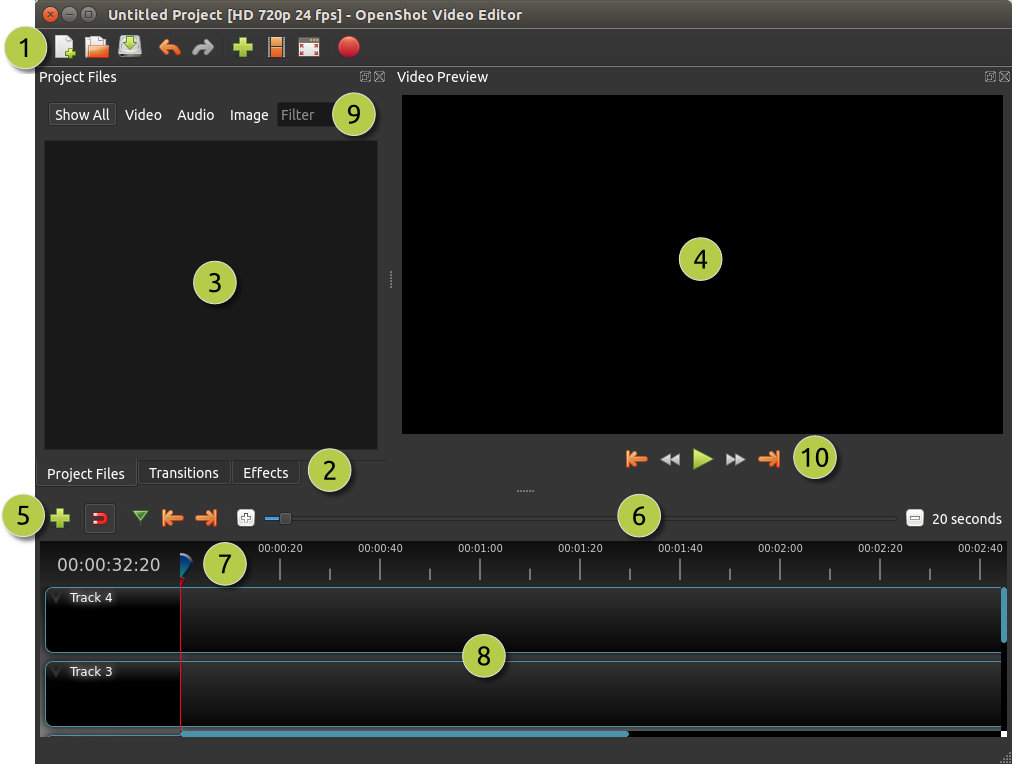
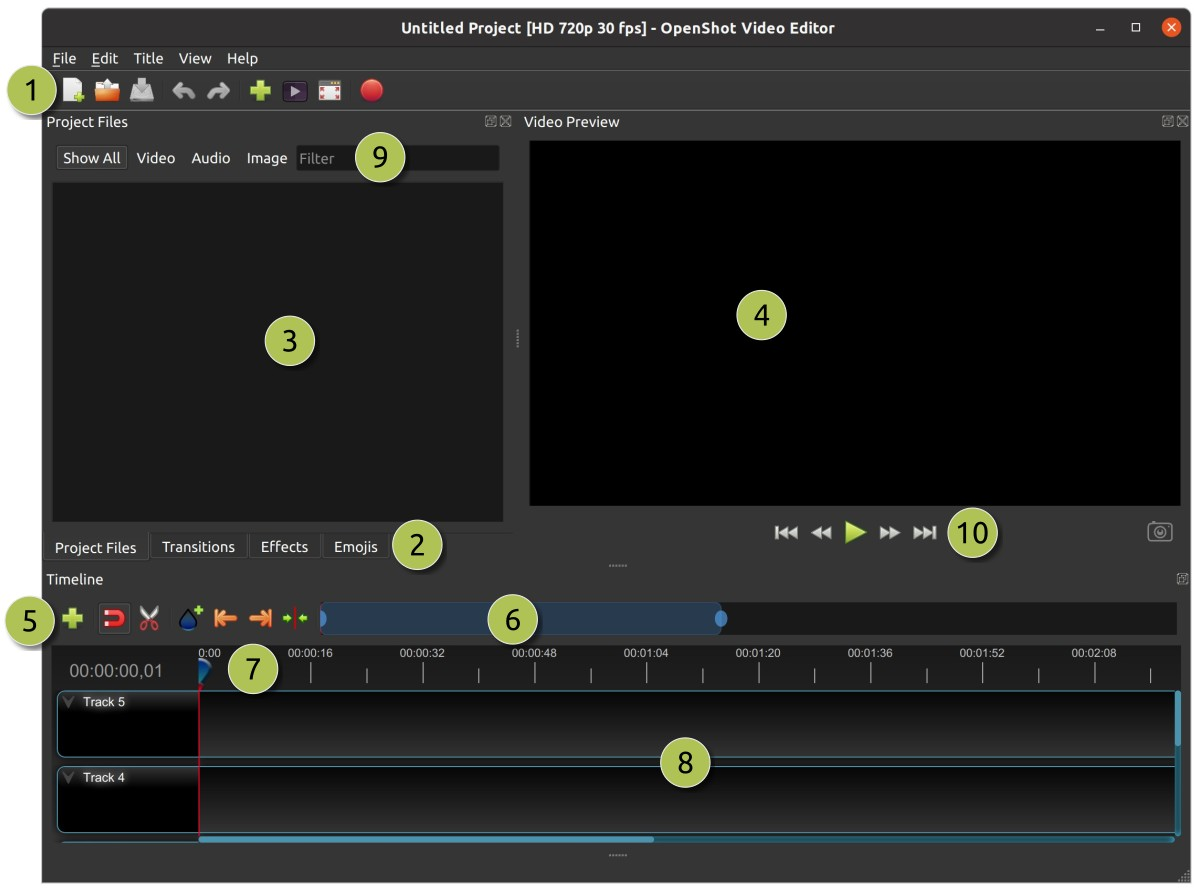
Updating main_window.rst with new images (UI has changed a bit), and updating to include emojis, and updating all keyboard shortcuts mentioned in OpenShot Preferences.

Changed region(s): [[0.0, 0.0, 1.0, 1.0], [0.6126, 0.301, 0.7352, 0.3914], [0.1838, 0.3312, 0.2757, 0.4215]]

diff --git a/doc/main_window.rst b/doc/main_window.rst
@@ -35,14 +35,14 @@ Overview
    #   Name                Description
    ==  ==================  ============
    1   Main Toolbar        Contains buttons to open, save, and export your video project.
-   2   Function Tabs       Switch between Project Files, Transitions, and Effects.
+   2   Function Tabs       Switch between Project Files, Transitions, Effects, and Emojis.
    3   Project Files       All audio, video, and image files that have been imported into your project.
    4   Preview Window      This is the area that the video will playback on the screen.
-   5   Edit Toolbar        This toolbar contains buttons used for snapping, inserting markers, and jumping between markers.
-   6   Zoom Slider         This slider will adjust the time-scale of your timeline.
-   7   Play-head / Ruler   The ruler shows the time-scale, and the red line is the play-head. The play-head represents the current playback position.
-   8   Timeline            The timeline visualizes your video project, and each clip and transition in your project.
-   9   Filter              Filter the list of items shown (project files, transitions, and effects) by using these buttons and filter textbox. Enter a few letters of what you are looking for, and the results will be shown.
+   5   Edit Toolbar        This toolbar contains buttons used for snapping, inserting markers, slicing razor, and jumping between markers.
+   6   Zoom Slider         This slider will adjust the time-scale of your timeline. Drag the left or right edge to zoom in or out. Drag the blue area to scroll the timeline left or right. Clips and transitions are displayed as simple rectangles, to give you context for adjusting the zoom to specific clips.
+   7   Play-head / Ruler   The ruler shows the time-scale, and the red line is the play-head. The play-head represents the current playback position. Hold `Shift` key while dragging the playhead to snap to nearby clips.
+   8   Timeline            The timeline visualizes your video project, and each clip and transition in your project. You can drag the mouse to select, move, or delete multiple items.
+   9   Filter              Filter the list of items shown (project files, transitions, effects, and emojis) by using these buttons and filter textbox. Enter a few letters of what you are looking for, and the results will be shown.
    10  Playback            Left to Right: Jump to Start, Rewind, Play/Pause, Fast Forward, and Jump to End
    ==  ==================  ============
 
@@ -64,7 +64,7 @@ Tracks & Layers
 OpenShot uses tracks to layer videos and images. The top most track is the top layer, and the bottom track is the bottom layer.
 If you are familiar with layers in a photo editing application, then you should be quite familiar with this concept.
 OpenShot will mix each layer together, just like a photo editing application. You can have an unlimited number of tracks, but
-typically a video project will not need more than 10 (or so) tracks.
+typically a video project will not need more than 5 tracks.
 
 For example, imagine a 3 track video project
 
@@ -76,9 +76,9 @@ For example, imagine a 3 track video project
    ==  ==================  ============
    #   Name                Description
    ==  ==================  ============
-   1   Top Track           Clips on this track will always be on top and visible
+   1   Top Track           Clips on this track will always be on top and visible. Often watermarks and titles are placed on higher tracks.
    2   Middle Track        Clips in the middle (might or might not be visible, depending on what is above them)
-   3   Bottom Track        Clips on this track will always be on the bottom
+   3   Bottom Track        Clips on this track will always be on the bottom. Often audio clips are placed on lower tracks.
    ==  ==================  ============
 
 .. _keyboard_shortcut_ref:
@@ -96,26 +96,33 @@ Ctrl+M              Add Marker
 Ctrl+Shift+T        Add Track
 Ctrl+W              Add to Timeline
 Ctrl+B              Animated Title
+Ctrl+Up             Center on Playhead
 Ctrl+P              Choose Profile
+Ctrl+Shift+ESC      Clear All Cache
 Ctrl+C              Copy
 Delete              Delete Item
-Backspace           Delete Item
+Backspace           Delete Item (Alternate 1)
 Ctrl+D              Details View
+Ctrl+Shift+C        Duplicate Title
+Not Set             Edit Title
 Ctrl+E              Export Video
 L                   Fast Forward
 F11                 Fullscreen
-Ctrl+F              Import Files
-Ctrl+End            Jump to End
-Ctrl+Home           Jump to Start
+Ctrl+F              Import Files...
+Ctrl+Shift+E        Insert Keyframe
+Ctrl+End            Jump To End
+Ctrl+Home           Jump To Start
 Ctrl+N              New Project
 Right               Next Frame
 Ctrl+Right          Next Marker
-Ctrl+O              Open Project
+Shift+Left          Nudge left
+Shift+Right         Nudge right
+Ctrl+O              Open Project...
 Ctrl+V              Paste
 Space               Play/Pause Toggle
-Up                  Play/Pause Toggle
-Down                Play/Pause Toggle
-K                   Play/Pause Toggle
+Up                  Play/Pause Toggle (Alternate 1)
+Down                Play/Pause Toggle (Alternate 2)
+K                   Play/Pause Toggle (Alternate 3)
 Ctrl+Shift+P        Preferences
 Left                Previous Frame
 Ctrl+Left           Previous Marker
@@ -123,6 +130,7 @@ Ctrl+I              Properties
 Ctrl+Q              Quit
 Ctrl+Y              Redo
 J                   Rewind
+Not Set             Save Current Frame
 Ctrl+S              Save Project
 Ctrl+Shift+S        Save Project As...
 Ctrl+A              Select All
@@ -130,14 +138,17 @@ Ctrl+Shift+A        Select None
 Ctrl+K              Slice All: Keep Both Sides
 Ctrl+L              Slice All: Keep Left Side
 Ctrl+J              Slice All: Keep Right Side
-Ctrl+G              Toggle Snapping
-R                   Toggle Razor tool
-Ctrl+X              Split Clip
+s                   Slice Selected: Keep Both Sides
+d                   Slice Selected: Keep Left Side
+a                   Slice Selected: Keep Right Side
+Ctrl+G              Snapping Enabled
+Ctrl+X              Split Clip...
 Ctrl+Shift+D        Thumbnail View
-Ctrl+T              Title Editor
+Ctrl+T              Title
+R                   Toggle Razor
+Ctrl+R              Transform
 Ctrl+Z              Undo
 =                   Zoom In
---                   Zoom Out
-Ctrl+Scroll         Zoom In/Out
+--                  Zoom Out
 Ctrl+Middle Button  Scroll Timeline
 ==================  ============
